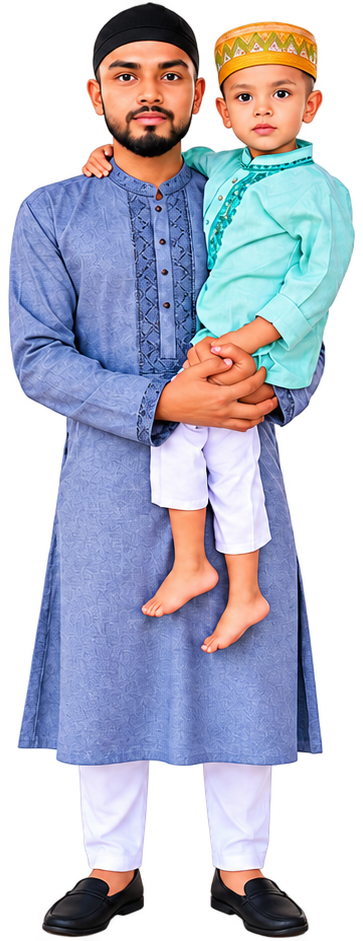
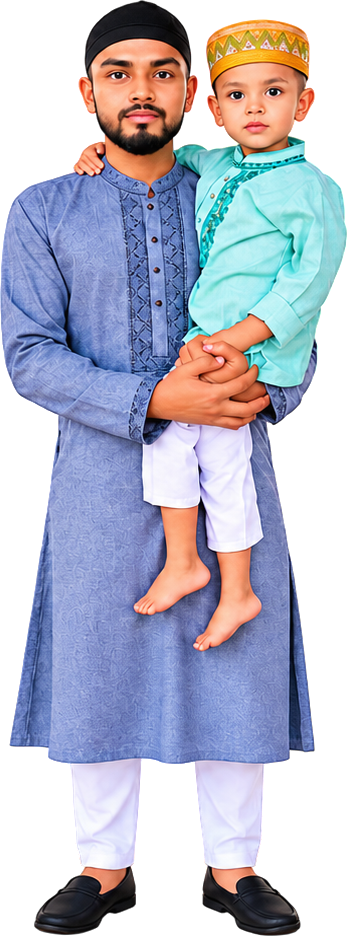
Tidy the hero 3D render and give it more presence
Regenerate the hero portrait from the uploaded Shawon3d.png at native
resolution, lifting the near-transparent halo out of the alpha channel
and de-fringing the soft edge so it sits cleanly on the card. Nudge the
portrait height up so the figure reads larger, and refresh the intrinsic
width/height on the img.

diff --git a/index.html b/index.html
@@ -163,7 +163,7 @@
             <div class="portrait">
               <picture>
                 <source srcset="assets/img/portrait-3d.webp" type="image/webp" />
-                <img src="assets/img/portrait-3d.png" width="363" height="941"
+                <img src="assets/img/portrait-3d.png" width="347" height="936"
                      alt="3D render of Shawon Haque" fetchpriority="high" decoding="async" />
               </picture>
             </div>

diff --git a/assets/css/styles.css b/assets/css/styles.css
@@ -457,7 +457,7 @@ html[data-theme="light"] .theme-toggle .icon-moon { display: none; }
 .portrait { display: flex; align-items: flex-end; }
 .portrait img {
   display: block;
-  height: clamp(300px, 42vh, 430px);
+  height: clamp(320px, 46vh, 520px);
   width: auto;
   max-width: 100%;
   object-fit: contain;
